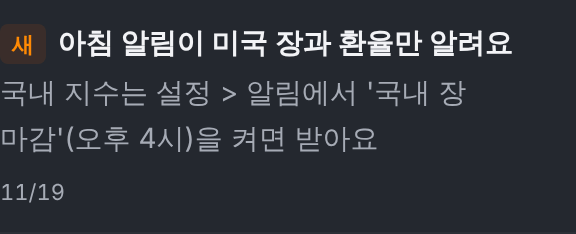
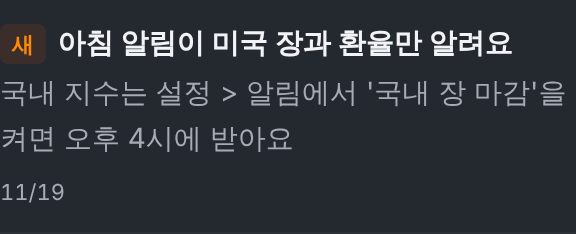
memory: #241 qa FAIL 수정 — spec 체험·preview 상태 행(D-4)·새 소식 본문, dev-notes 대응표, D-1 캡처 6장

Changed region(s): [[0.0, 0.5385, 0.6562, 0.6581], [0.8125, 0.3291, 1.0, 0.4786]]

diff --git a/issues/5.126-241-morning-push/5.126-dev-notes.md b/issues/5.126-241-morning-push/5.126-dev-notes.md
@@ -1,13 +1,13 @@
 # 5.126 dev-notes — #241 아침 9시 알림 (developer, 2026-11-19)
 
-브랜치 `issue-5.126` · 구현 f3ffccb · KB 2c55b74 · PR 미생성(지시) · risk:low · 저장 스키마·저장 키·구독 기록·종류 ID·서버 전송 필드 diff 0
+브랜치 `issue-5.126` · 구현 f3ffccb · KB 2c55b74 · qa FAIL 수정 407c07b · PR 미생성(지시) · risk:low · 저장 스키마·저장 키·구독 기록·종류 ID·서버 전송 필드 diff 0
 
 ## 1. 변경 요약
 - `src/lib/push/quotes.ts`: 환율 대상을 `FX_TARGET` 상수로 꺼냄(`KR_TARGETS`는 같은 3종 그대로), `fetchFxQuote(today)` 신설(기대일 = 오늘, 오늘 값 = 전일 값이면 `flat`으로 생략), `QuoteStatus`에 `flat`, `estimateKisCalls(us, fx, kr)`. `fetchKrQuotes`·`fetchTargets`·`changeFromSeries` 무수정.
 - `src/lib/push/cron-run.ts`: `loadPushQuotes(today, {us, fx, kr}, round)` → `{us, fx, kr, status}`. 아침 `needFx = morning 구독 있음`, `needKr = needed.has("kr")`, `hasContent = us + fx > 0`. 로그 `subs=` 1필드. 아침 환율이 stale·flat이면 KIS 실패로 세지 않음(그 밖 실패 집계는 종전과 같음).
 - `src/lib/push/message.ts`: `buildMorningMessage(today, us, fx, cond)`, `expectedCloseDate(today)` 내보냄(조회·본문 공용), `isRepeatedClose(today)`·`lastRestDate` 미국 전용으로 축소(국내 인자 쓰는 곳 0). `buildKrCloseMessage`·`mergePushPayloads` 무수정.
 - `test-payloads.ts`(아침 = 미국 + 오늘 환율, 국내 장 마감 미리보기 = 직전 영업일 종가 그대로), `catalog.ts` 설명 2줄, `notify-section.tsx` 예시 알림, `whats-new.ts` `20261119-01`, 주석(`push-host.tsx`·`sw.js` — sw.js는 주석 1줄 추가뿐, 캐시 이름 불변).
-- 새 소식: `20261119-01` 제목 20자·본문 41자(C121 등록 확인).
+- 새 소식: `20261119-01` 제목 20자·본문 42자(C121 등록 확인, 본문은 qa D-1로 교체 — 7절).
 
 ## 2. 완료 기준 대응표
 | AC | 결과 | 근거 |
@@ -67,3 +67,15 @@
 - `subs=`는 구독을 읽은 회차에만 찍힌다(구독 0·대상 없음 조기 종료 시 로그 줄 자체가 없음 — 종전과 같음).
 - KB의 #243(전량 매도 표시) 변경분은 이 작업 범위 밖이라 changelog에 넣지 않았다.
 - 커밋 꼬리말의 모델 표기는 세션 지정값(`Claude Fable 5.2`)을 썼다.
+
+## 7. qa FAIL 수정 대응표 (`5.126-qa-report.md` @2c55b74 → 407c07b)
+| # | 처리 | 근거 |
+|---|---|---|
+| D-1 새 소식 본문 줄바꿈 | **수정** — `국내 지수는 설정 > 알림에서 '국내 장 마감'을 켜면 오후 4시에 받아요`(42자, 괄호 없음, 권유·과장 0). `설정 > 알림`·`국내 장 마감`·`오후 4시` 안은 U+00A0, `'`와 `을` 사이 U+2060 | preview 글자 단위 측정(다크): 320·1280 = `…'국내 장 마감'을` / `켜면 오후 4시에 받아요`, 360·375·390·430 = `…'국내 장 마감'을 켜면` / `오후 4시에 받아요`. 닫는 따옴표 뒤 조사 분리·어절 중간 끊김 0. 제목은 6개 폭 모두 1줄. 캡처 `screenshots/dev/d1-whatsnew-item-{320,360,375,390,430,1280}-dark.png` |
+| D-2 #243 KB 누락 | **수정** — `changelog.md` v5.126 절에 #243 항목, `qa-full-test-plan.md` F-GROW 첫 줄에 '수량 0 보유 건 제외' | 커밋 407c07b |
+| D-3 진단 라우트 | **유지(삭제 대기)** — 16:05·11/20 09:01 실측 뒤 별도 커밋. AC 10 미충족 그대로 | 지시 |
+| D-4 spec 체험·preview 행 | **추가** — `5.126-spec.md` 7절 끝 '환경별 상태' 2행. 체험: 알림 섹션 없음·홈 팁 없음·시트를 열면 항목은 뜸. preview 데모: 섹션·설명·예시 보임, 홈 팁·시트 노출 | preview 390 다크 실측(시트는 `open-whats-new` 이벤트로 열어 확인 — 체험의 더보기 진입 경로를 손으로 밟지는 않았다). 체험 수용 이유는 developer 초안이라 planner-designer·cto 확정 필요 |
+- 검증(407c07b): tsc 0 · lint 오류 0(경고 121) · vitest 218파일 3292건 · build 1회차 exit 1(보안 권고), 재실행 exit 0.
+- qa O-1 반영: 6절의 '어느 경우도 틀린 숫자는 나가지 않는다'는 증명된 문장이 아니다 — flat 보호는 값이 완전히 같을 때만 걸리므로, 휴장일 자리 행이 확정 전 전일 값을 복제하면 작은 등락률로 나갈 수 있다(미재현). 12/25·12/31 로그 `fx=`와 실수신으로 확정.
+- 라이트 테마·실기기에서는 재측정하지 않았다(다크 6개 폭만).
+
